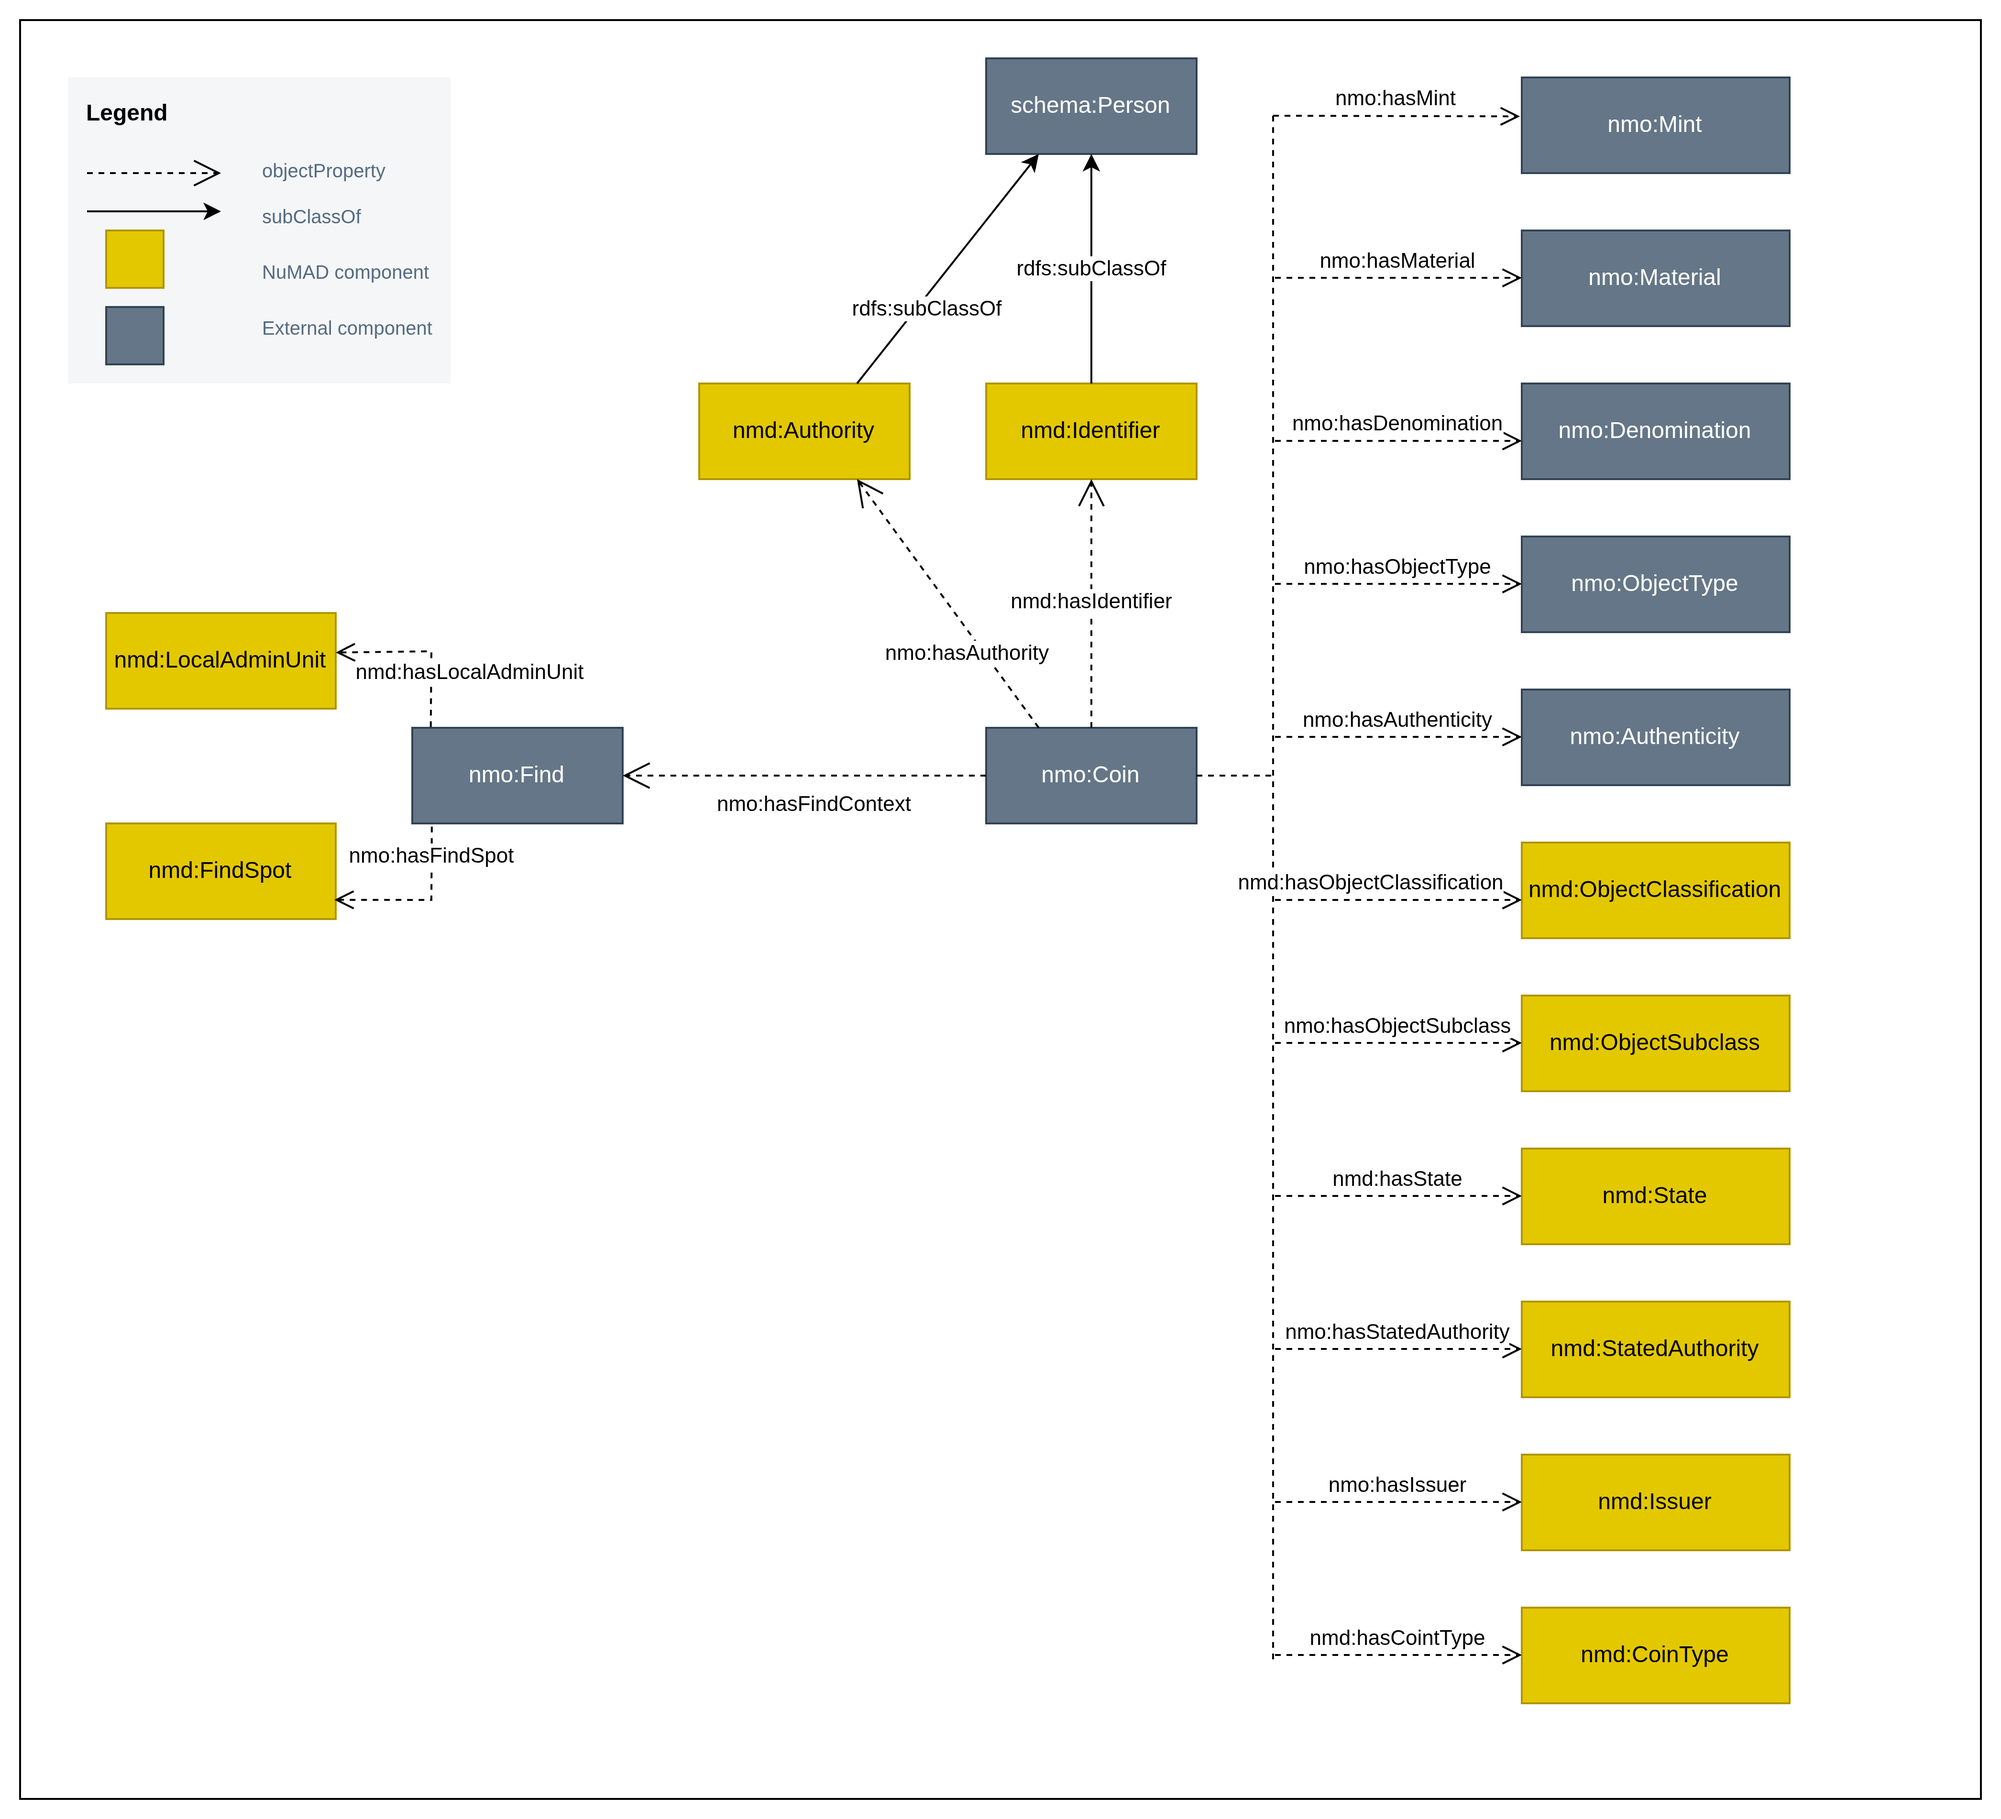
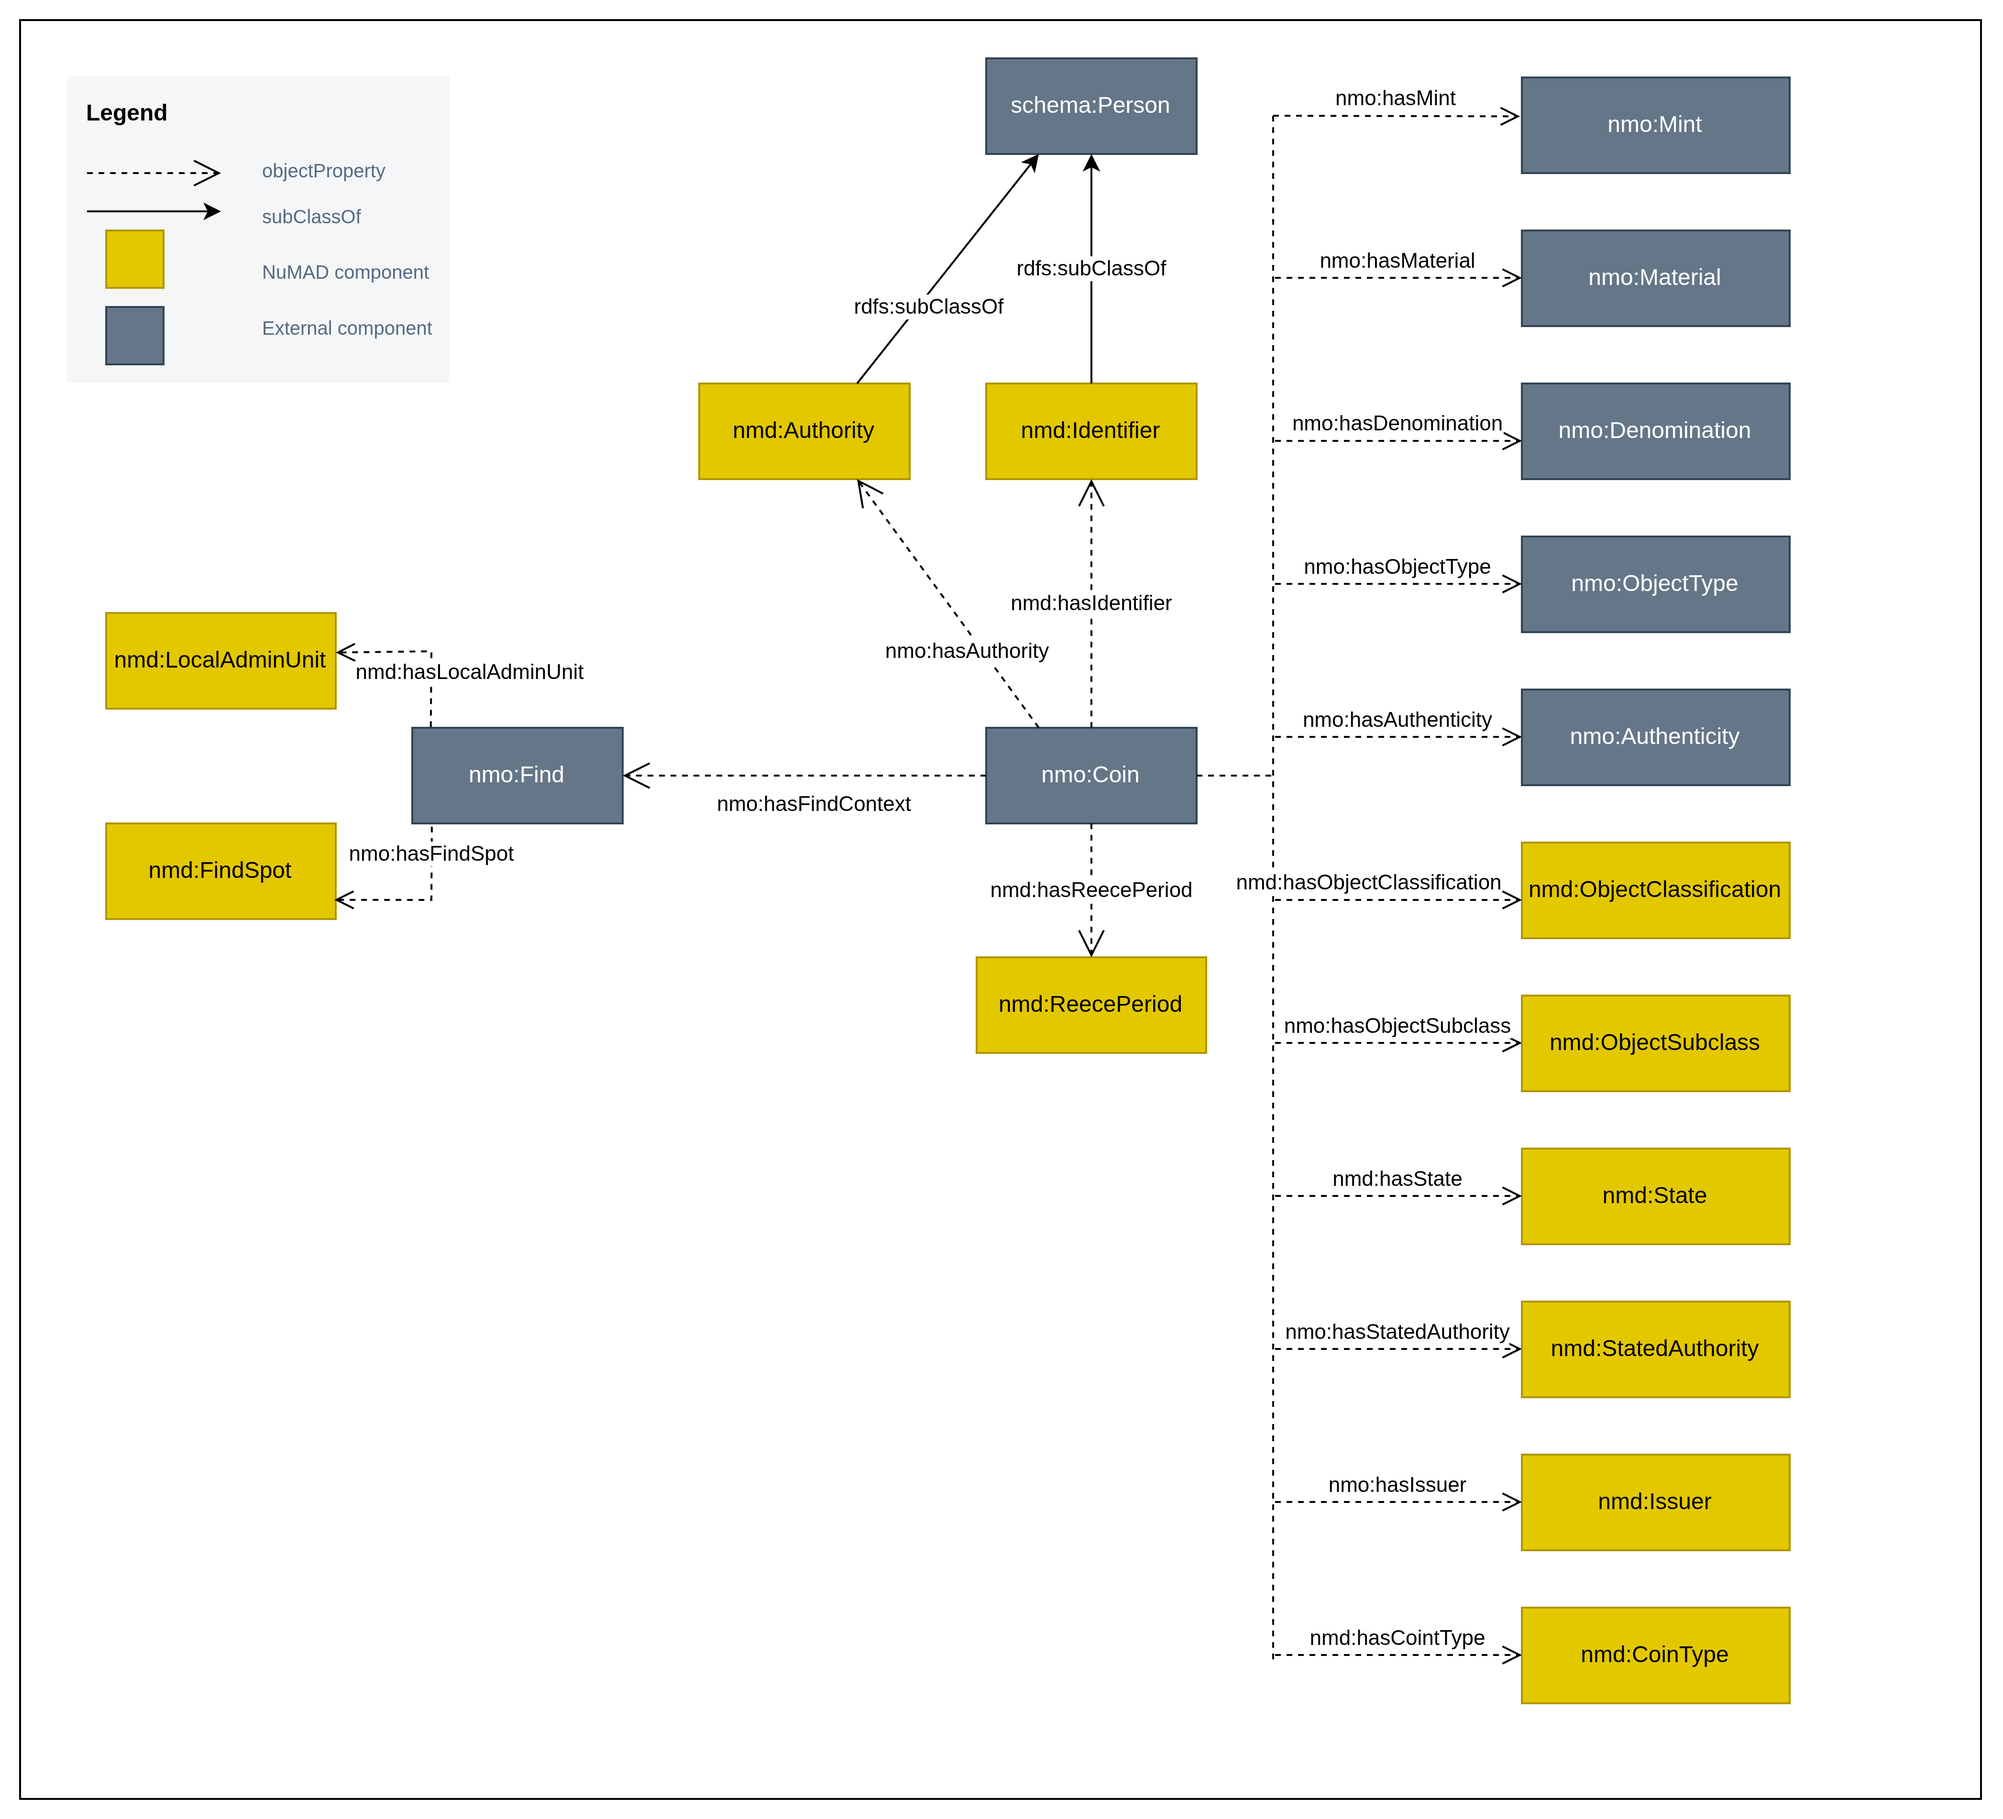
docs: edit diagram.png

diff --git a/README.md b/README.md
@@ -16,7 +16,7 @@ Maps the data in real time from the database to a sparql endpoint using
 the nomisma ontology for the most part.
 
 #### Diagram of classes used:
-![diagram](docs/diagram.png)
+<img src="docs/diagram.png" alt="diagram" width="1000"/>
 
 
 The nomisma ontology is extremely loosely defined without any domains or ranges for any class.
